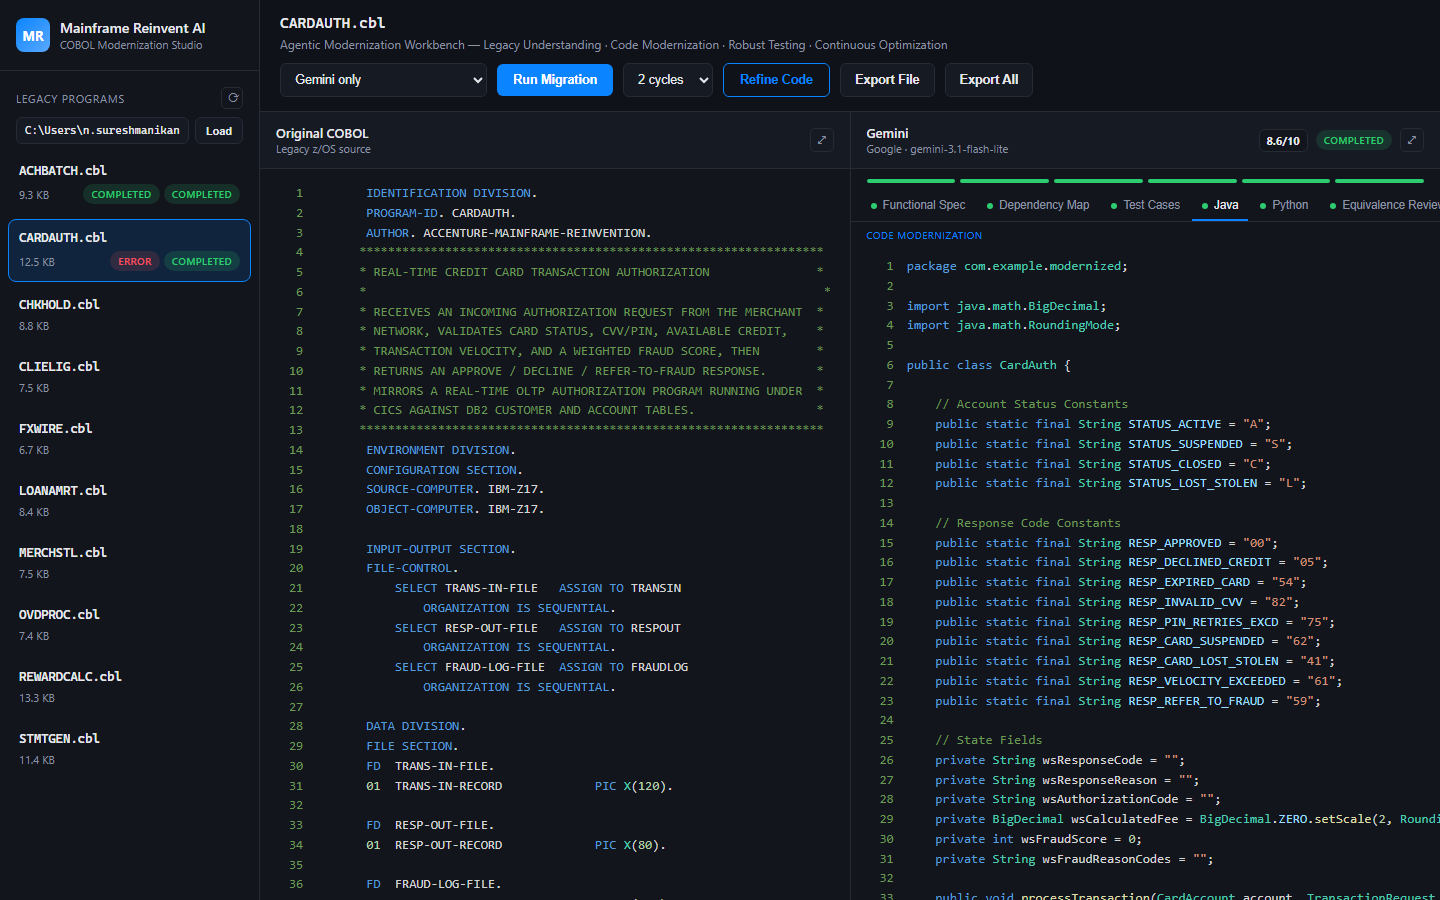
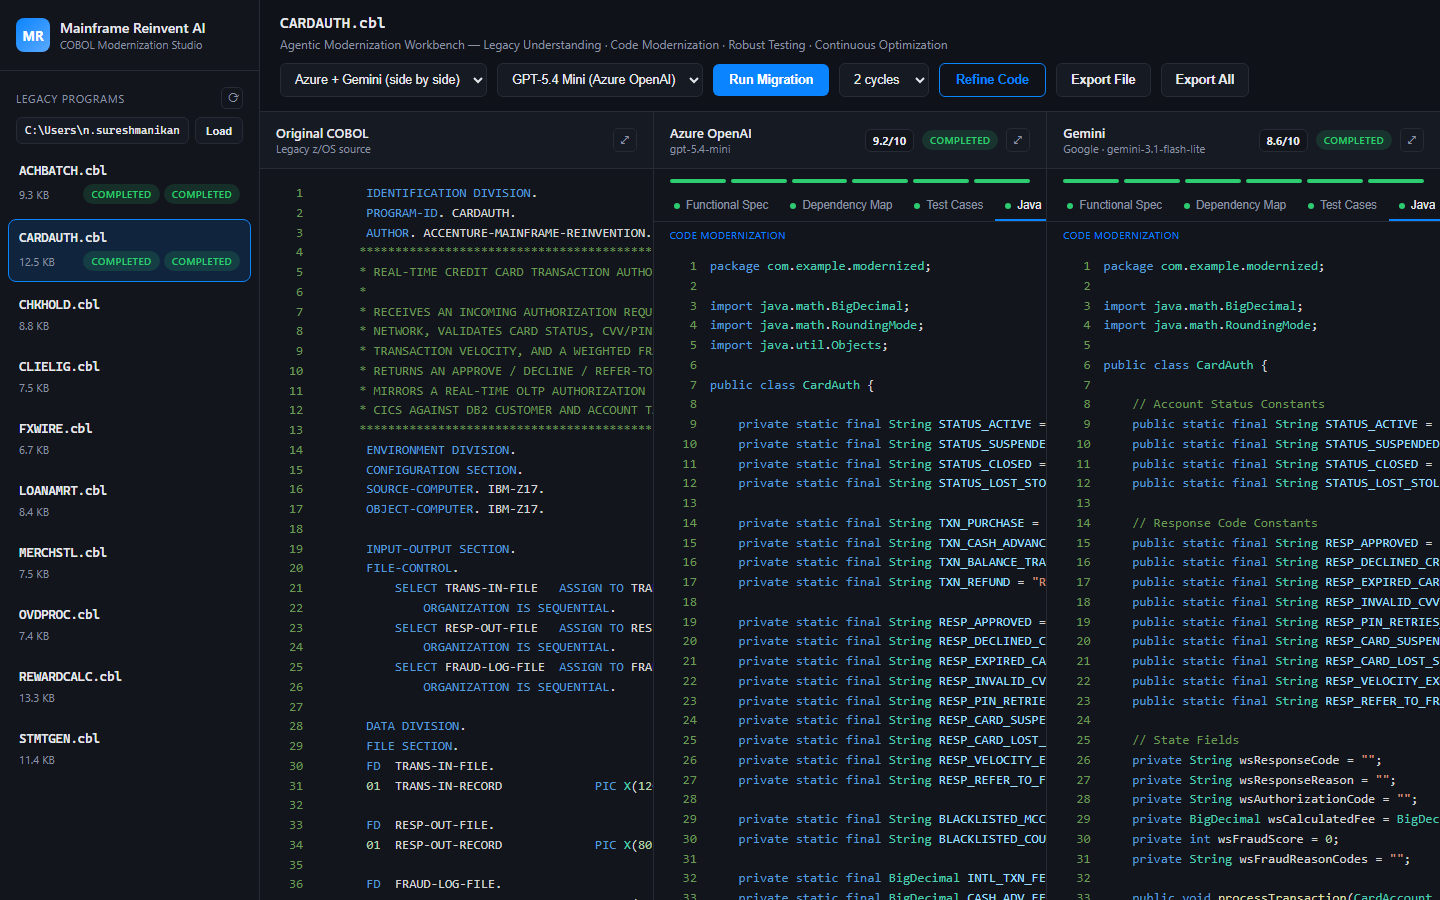
Switch Azure OpenAI to a working resource; restore side-by-side screenshots
The previous resource (agentforgeai-resource) had genuinely expired --
confirmed via a direct 401 from its endpoint. Verified the new resource
(sureshopenaichat) with a real call before wiring it in: it uses the
classic deployment-based REST shape
(/openai/deployments/{deployment}/chat/completions?api-version=...),
not the v1 path the old resource used, so this is a URL-construction
change in call_azure(), not just a key swap. Only gpt-5.4-mini is a
confirmed deployment on this resource -- gpt-5.6-sol dropped from
AVAILABLE_AZURE_MODELS since it doesn't exist here and would 404.

Re-ran CARDAUTH through Azure end to end on the new resource (migration,
pytest execution, deployment wrapper) to prove it for real rather than
just trusting a 200 on a test call. Azure's pytest run came back 32/34,
shown honestly rather than only capturing a clean pass -- the 2 failures
are test fixtures assuming a simpler outcome than the COBOL's actual
multi-condition rule precedence produces on that input, the same class
of issue the pytest_tests prompt's checksum-verification note exists
to catch (not yet extended to this case).

README screenshots 01 and 03 recaptured in "Azure + Gemini (side by
side)" mode -- the actual core value proposition of this tool -- instead
of Gemini-only, now that both backends work again.

The API key was never written to any file: set via a fresh direct API
verification, then delivered to the already-running backend process
[…]

diff --git a/backend/app/llm_clients.py b/backend/app/llm_clients.py
@@ -6,15 +6,22 @@ import time
 
 import requests
 
-AZURE_BASE_URL = "https://agentforgeai-resource.services.ai.azure.com/openai/v1"
-AZURE_DEFAULT_MODEL = "gpt-5.6-sol"
+
+# Azure OpenAI resource details. This resource (sureshopenaichat) uses the
+# classic deployment-based REST shape --
+# {endpoint}/openai/deployments/{deployment}/chat/completions?api-version=...
+# -- NOT the v1 path (no deployment name in the URL, no api-version param)
+# that a previous, now-expired resource used. Don't "simplify" this back to
+# a v1 base_url without re-verifying against a live call first.
+AZURE_ENDPOINT = "https://sureshopenaichat.services.ai.azure.com"
+AZURE_API_VERSION = "2024-12-01-preview"
+AZURE_DEFAULT_MODEL = "gpt-5.4-mini"
 
 # Only models CONFIRMED as real, callable deployments on this Azure resource
-# (verified via direct API call -- the /v1/models list includes hundreds of
-# catalog entries that return DeploymentNotFound when actually invoked).
+# (verified via a direct API call returning a genuine completion, not just
+# assumed from a catalog/model list).
 AVAILABLE_AZURE_MODELS = [
-    {"id": "gpt-5.6-sol", "label": "GPT-5.6 Sol (recommended for enterprise modernization)"},
-    {"id": "gpt-5.4-mini", "label": "GPT-5.4 Mini (faster/cheaper, previous default)"},
+    {"id": "gpt-5.4-mini", "label": "GPT-5.4 Mini (Azure OpenAI)"},
 ]
 
 GEMINI_MODEL = "gemini-3.1-flash-lite"
@@ -81,15 +88,20 @@ def call_azure(prompt: str, max_tokens: int = 8000, model: str | None = None):
     if not key:
         return None, "AZURE_OPENAI_API_KEY not set"
 
+    deployment = model or AZURE_DEFAULT_MODEL
+    url = (
+        f"{AZURE_ENDPOINT}/openai/deployments/{deployment}/chat/completions"
+        f"?api-version={AZURE_API_VERSION}"
+    )
+
     budget = max_tokens
     last_finish_reason = None
     for attempt in range(MAX_TOKEN_ESCALATIONS + 1):
         try:
             resp = _post_with_retry(
-                f"{AZURE_BASE_URL}/chat/completions",
+                url,
                 headers={"api-key": key, "Content-Type": "application/json"},
                 json={
-                    "model": model or AZURE_DEFAULT_MODEL,
                     "messages": [{"role": "user", "content": prompt}],
                     "max_completion_tokens": budget,
                 },

diff --git a/README.md b/README.md
@@ -25,9 +25,9 @@ This is a hands-on proof of concept for **legacy mainframe modernization in the 
 
 ## Screenshots
 
-All screenshots below are live captures of the running app against real generated output — not mockups. `CARDAUTH.cbl` (an online/API-classified program) run through Gemini end to end, and `ACHBATCH.cbl` (a batch-classified program) showing its Deployment tab.
+All screenshots below are live captures of the running app against real generated output — not mockups. `CARDAUTH.cbl` (an online/API-classified program) run through **both Azure OpenAI and Gemini side by side** end to end, and `ACHBATCH.cbl` (a batch-classified program) showing its Deployment tab.
 
-**Code Modernization** — COBOL, side by side with the real Gemini-generated Java, in the same pane:
+**Code Modernization** — the actual core value of this tool: the same COBOL converted by Azure OpenAI (`gpt-5.4-mini`) and Gemini (`gemini-3.1-flash-lite`) at the same time, so you can compare them directly instead of trusting one model's output blind:
 
 ![Code Modernization](docs/screenshots/01_cardauth_code_modernization.png)
 
@@ -35,7 +35,7 @@ All screenshots below are live captures of the running app against real generate
 
 ![Quality Score](docs/screenshots/02_cardauth_quality_score.png)
 
-**Test Execution** — a real pytest suite, actually executed in a subprocess against the generated Python; every line below is a genuine pass, not a self-reported claim:
+**Test Execution** — a real pytest suite, actually executed in a subprocess against the generated Python, for both backends. Azure's run is shown honestly at **32/34 passed** (not sanitized to a suspicious 100%) — the 2 failures turned out to be the test fixtures assuming a simpler rule outcome than the COBOL's actual multi-condition precedence produces on that exact input, the same class of issue documented in the `pytest_tests` prompt's checksum-verification requirement:
 
 ![Test Execution](docs/screenshots/03_cardauth_test_execution.png)
 
